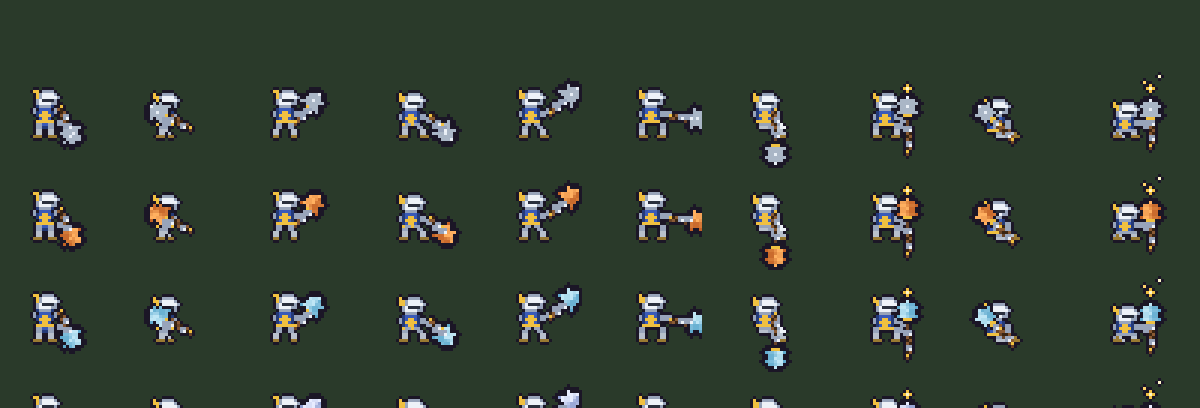
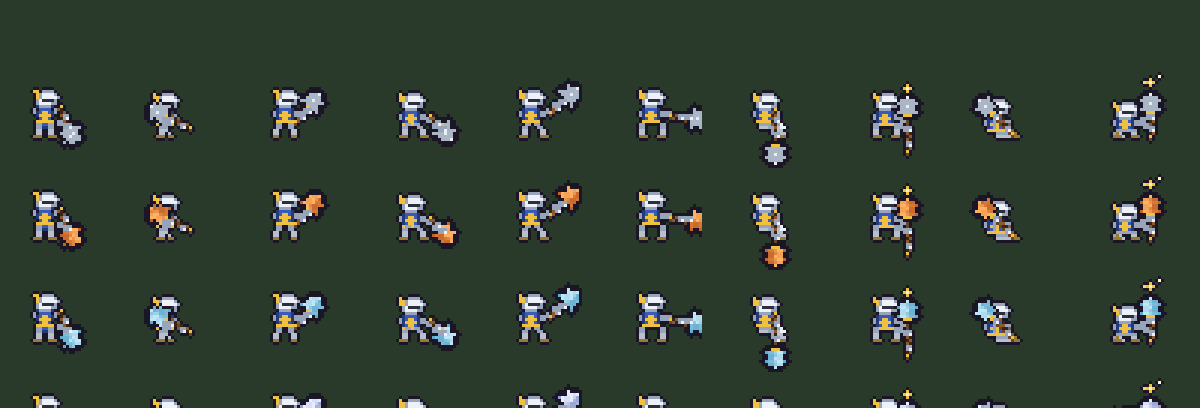
paladin mace: keep the longer haft above the floor in slide and kneel

diff --git a/src/chars.js b/src/chars.js
@@ -2753,10 +2753,10 @@ export function bakePaladin(skin = {}, previewOnly = false) {
     hurt: [knightFrame({ dx: -1, dy: 1, legs: 'fall', maul: [sh[0] + 1, sh[1] + 2, sh[0] + 7, sh[1] + 5], plume: 2 }), knightFrame({ dx: -2, dy: 2, legs: 'land', maul: [sh[0], sh[1] + 3, sh[0] + 5, sh[1] + 8], plume: 1 })],
     crouch: knightFrame({ dy: 3, legs: 'crouch', legsDy: 3, maul: rest(-6) }),
     /* THE BUTT-SLIDE (src/slide.js): sat back on the ground with the legs run out in front, leaning away from the hill, the weapon tucked behind (a second frame for the cloth) */
-    slide: [0, 1].map(i => knightFrame({ dx: -3, dy: 3, legs: 'slide', legsDy: 3, plume: i * 2, arm: [sh[0], sh[1], sh[0] - 1, sh[1] + 4], maul: [sh[0] - 1, sh[1] + 4, sh[0] - 9, sh[1] - 4] })),
+    slide: [0, 1].map(i => knightFrame({ dx: -3, dy: 3, legs: 'slide', legsDy: 3, plume: i * 2, arm: [sh[0], sh[1], sh[0] - 1, sh[1] + 2], maul: [sh[0] - 1, sh[1] + 2, sh[0] - 9, sh[1] - 6] })),
     /* KNEEL IN PRAYER (src/crouch-b.js): down on one knee, the maul planted upright before him with both hands on the haft and his helm
        bowed to it, the light gathering at its head - brighter, and a mote off it, on the second beat (and held there once his bar is full) */
-    kneel: [0, 1].map(i => knightFrame({ dy: 3, hy: 1, legs: 'kneel', arm: [sh[0], sh[1], sh[0] + 3, sh[1] + 1], maul: [sh[0] + 4, sh[1] + 5, sh[0] + 4, sh[1] - 6], glow: [sh[0] + 4, sh[1] - 10 - i], plume: 0,
+    kneel: [0, 1].map(i => knightFrame({ dy: 3, hy: 1, legs: 'kneel', arm: [sh[0], sh[1], sh[0] + 3, sh[1] + 1], maul: [sh[0] + 4, sh[1] + 2, sh[0] + 4, sh[1] - 8], glow: [sh[0] + 4, sh[1] - 12 - i], plume: 0,
       bits: i ? [[10, -6, '#ffd36b'], [15, -8, '#fff6c8']] : null })),
     // AEGIS: the maul planted upright before him, both hands on the haft
     block: [0, 1].map(i => knightFrame({ legs: 'wide', dy: i, arm: [sh[0], sh[1], sh[0] + 3, sh[1] + 2], maul: [sh[0] + 3, sh[1] + 9, sh[0] + 3, sh[1] - 5], glow: [sh[0] + 3, sh[1] - 9] })),

diff --git a/work/claude/lane-done/claude-paladinmace.md b/work/claude/lane-done/claude-paladinmace.md
@@ -6,3 +6,4 @@ Art only. Hitboxes, timings, frame counts, stats unchanged.
 - UNVERIFIED: not felt in motion; weight comes from the existing pose tables (head trailing in carry/slide, planted in idle/block/kneel) - no pose table was redrawn.
 ## QUESTIONS FOR DANIEL
 1. Head is ~7x8 px, haft ~11 px: recommend keep; say if you want it bigger/smaller.
+- Slide and kneel poses raised 2-3 px so the longer haft butt stays above the floor (slide, crouch-feet).
